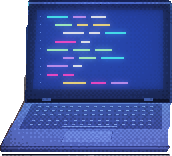
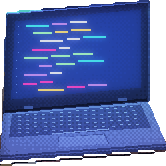
art(O-06): turn the laptop toward the seat; keep the map clear of it
The laptop is turned 11 degrees toward the left-hand seat, as if someone had just been working at it, and moved back a little so it stays on the table. The map moves right, so the laptop, lifted and scaled on focus, no longer meets the map's sprite, which lay over it.

diff --git a/src/scene/geometry.gen.ts b/src/scene/geometry.gen.ts
@@ -29,8 +29,8 @@ export const CAMERA = { x: 240, y: 209.808 };
 /** Every focusable object, keyed by the section it opens */
 export const OBJECTS: Record<string, ObjectGeometry> = {
   cover: { zone: [142, 116, 338, 272], light: { x: 240, y: 194, rx: 108, ry: 84 } },
-  projects: { zone: [137, 279, 252, 376], light: { x: 195, y: 328, rx: 62, ry: 52 }, box: { x: 149, y: 295, w: 86, h: 78 }, sprite: '/assets/obj-projects.webp' },
+  projects: { zone: [137, 279, 252, 376], light: { x: 195, y: 328, rx: 62, ry: 52 }, box: { x: 154, y: 291, w: 83, h: 83 }, sprite: '/assets/obj-projects.webp' },
   about: { zone: [308, 344, 360, 378], light: { x: 334, y: 361, rx: 30, ry: 20 }, box: { x: 312, y: 347, w: 39, h: 23 }, sprite: '/assets/obj-about.webp' },
   stack: { zone: [318.7565, 36.95, 409.9482, 92.9085], light: { x: 364.3523, y: 67.0018, rx: 49.7409, ry: 29.0155 }, box: { x: 325, y: 46, w: 75, h: 44 }, sprite: '/assets/obj-stack.webp', front: { x: 322, y: 77, w: 85, h: 17, sprite: '/assets/obj-stack-front.webp' } },
-  journey: { zone: [227, 317, 310, 348], light: { x: 265, y: 332, rx: 38, ry: 12 }, box: { x: 233, y: 323, w: 63, h: 18 }, sprite: '/assets/obj-journey.webp' },
+  journey: { zone: [240, 317, 312, 348], light: { x: 273, y: 332, rx: 32, ry: 12 }, box: { x: 245, y: 323, w: 57, h: 18 }, sprite: '/assets/obj-journey.webp' },
 };

diff --git a/tools/art/room.py b/tools/art/room.py
@@ -43,7 +43,7 @@ OBJECTS = {
     'stack': dict(at=(326, 52), zone=(-10, -9, 78, 45), light=(34, 20, 48, 28), on_rack=1),
     # the map, half open on the table; the line display on the wall is the
     # railway's, and only a decoy
-    'journey': dict(at=(233, 323), zone=(-6, -6, 77, 25), light=(32, 9, 38, 12)),
+    'journey': dict(at=(245, 323), zone=(-5, -6, 67, 25), light=(28, 9, 32, 12)),
 }
 
 # The window opening (x y w h) and its corner radius. The page lays .win over it:
@@ -1106,7 +1106,7 @@ def table_map(g, T):
     o = g.at(0, 0, 'journey')
     paper = (232, 222, 196)
     # the flat sheet, a little askew
-    A, B, C, D = T(0.47, 0.08), T(0.77, 0.05), T(0.78, 0.28), T(0.48, 0.31)
+    A, B, C, D = T(0.53, 0.08), T(0.8, 0.05), T(0.81, 0.28), T(0.54, 0.31)
     o.poly([A, B, C, D], paper)
     g.line([(D[0], D[1] + 1), (C[0], C[1] + 1)], mul(WOOD, 0.55))  # its shadow on the wood
 
@@ -1278,15 +1278,27 @@ def table(g, rnd):
     table_map(g, T)
     # ---- laptop (the projects object)
     # Drawn in the table's own perspective: its base is a rectangle on the table
-    # top, square to the table's edges, found through T(u, v); the lid stands
-    # up from the base's back edge. All of it on the fine layer, whose straight
-    # edges EPX would tear (docs/13, R-03, O-06).
+    # top, found through T(u, v), turned a little toward the left-hand seat as if
+    # someone had just been working at it from there; the lid stands up from the
+    # base's back edge. All of it on the fine layer, whose straight edges EPX
+    # would tear (docs/13, R-03, O-06).
     o = place(g, 'projects', (148, 288))
-    u0, u1, v0, v1 = 0.12, 0.47, 0.42, 0.9
-    BLb, BRb, FRb, FLb = T(u0, v0), T(u1, v0), T(u1, v1), T(u0, v1)
-    # contact shadow along its front and left edges, where it meets the table
-    o.shadow(round(FLb[0]) - 3, round(FLb[1]) - 1, round(FRb[0] - FLb[0]) + 6, 5, 0.45)
-    o.shadow(round(FLb[0]) - 4, round(BLb[1]), 6, round(FLb[1] - BLb[1]), 0.6)
+    TW, TD = 1.0, 0.5  # the table's width and depth in metres, for turning
+    cu, cv, hw, hd, turn = 0.29, 0.62, 0.175, 0.12, math.radians(-11)
+
+    def on_table(a, b):
+        """A point of the base, a across from 0 (left) to 1, b from 0 (back) to 1."""
+        x, z = (a - 0.5) * 2 * hw, (b - 0.5) * 2 * hd
+        x, z = x * math.cos(turn) - z * math.sin(turn), x * math.sin(turn) + z * math.cos(turn)
+        return T(cu + x / TW, cv + z / TD)
+
+    BLb, BRb, FRb, FLb = on_table(0, 0), on_table(1, 0), on_table(1, 1), on_table(0, 1)
+    K = lambda a, b: on_table(a, b)
+    # contact shadow along its front edge and its left side
+    xs = [q[0] for q in (BLb, BRb, FRb, FLb)]
+    ys = [q[1] for q in (BLb, BRb, FRb, FLb)]
+    o.shadow(round(min(xs)) - 3, round(max(ys)) - 3, round(max(xs) - min(xs)) + 6, 6, 0.45)
+    o.shadow(round(min(xs)) - 4, round(min(ys)), 7, round(max(ys) - min(ys)), 0.6)
     th = 3  # the base's thickness
     o.fpoly([FLb, FRb, (FRb[0], FRb[1] + th), (FLb[0], FLb[1] + th)], (88, 94, 130))
     o.fpoly([BRb, FRb, (FRb[0], FRb[1] + th), (BRb[0], BRb[1] + th)], (68, 74, 106))
@@ -1294,18 +1306,14 @@ def table(g, rnd):
     o.fline([(FLb[0], FLb[1] + th + 1), (FRb[0], FRb[1] + th + 1)], (18, 16, 28))
     o.fpoly([BLb, BRb, FRb, FLb], (150, 158, 190))
     # the keyboard well, and the keys at their size: five rows
-    K = lambda u, v: T(u0 + (u1 - u0) * u, v0 + (v1 - v0) * v)
     o.fpoly([K(0.06, 0.06), K(0.94, 0.06), K(0.95, 0.6), K(0.05, 0.6)], (92, 100, 138))
     for r in range(5):
-        v = 0.1 + r * 0.1
         n = 15
         for i in range(n):
-            x, y = K(0.09 + (i + 0.5) * 0.82 / n, v)
+            x, y = K(0.09 + (i + 0.5) * 0.82 / n, 0.1 + r * 0.1)
             o.frect(round(x) - 1, round(y), 2, 1, (196, 204, 234))
     # the space bar
-    xa, ya = K(0.32, 0.55)
-    xb, _ = K(0.68, 0.55)
-    o.frect(round(xa), round(ya), round(xb - xa), 1, (196, 204, 234))
+    o.fline([K(0.32, 0.56), K(0.68, 0.56)], (196, 204, 234))
     # the trackpad
     o.fpoly([K(0.355, 0.67), K(0.645, 0.67), K(0.65, 0.91), K(0.35, 0.91)], (110, 118, 154))
     o.fpoly([K(0.36, 0.68), K(0.64, 0.68), K(0.645, 0.9), K(0.355, 0.9)], (172, 180, 212))
@@ -1319,36 +1327,39 @@ def table(g, rnd):
     # the screen inside a bezel: narrow at the sides and top, wider at the foot
     D = [(L[0][0] + 4, L[0][1] + 4), (L[1][0] - 4, L[1][1] + 4), (BRb[0] - 4, BRb[1] - 7), (BLb[0] + 4, BLb[1] - 7)]
     o.fpoly(D, (40, 70, 160), 0.42, body=(22, 30, 62))
-    cx = (L[0][0] + L[1][0]) / 2
-    o.frect(round(cx), round(L[0][1]) + 1, 1, 1, (16, 18, 30))  # the camera
+    Sp = lambda a, b: lerp(lerp(D[0], D[1], a), lerp(D[3], D[2], a), b)
+    o.frect(round((L[0][0] + L[1][0]) / 2), round((L[0][1] + L[1][1]) / 2) + 1, 1, 1, (16, 18, 30))  # the camera
     # hinge: a dark seam across the lid's foot, a barrel at each end
     o.fline([(BLb[0] + 1, BLb[1] - 1), (BRb[0] - 1, BRb[1] - 1)], (22, 24, 38), width=1.5)
-    for hx in (BLb[0] + 9, BRb[0] - 13):
-        o.frect(round(hx), round(BLb[1]) - 2, 5, 2, (96, 102, 136))
-    # code on the screen
+    for t in (0.14, 0.8):
+        hx, hy = lerp(BLb, BRb, t)
+        o.frect(round(hx), round(hy) - 2, 5, 2, (96, 102, 136))
+    # code on the screen, its rows following the screen's slope
     colors = [MAG, CYA, (255, 206, 110), (150, 255, 170), (226, 232, 255), (176, 130, 255)]
-    sx0, sx1 = D[0][0] + 5, D[1][0] - 3
-    sy0, sy1 = D[0][1] + 3, D[3][1] - 3
     rows = 9
     for r in range(rows):
-        y = sy0 + r * (sy1 - sy0) / (rows - 1)
-        o.frect(round(D[0][0]) + 2, round(y), 1, 1, (90, 110, 170), 0.5)
-        x = sx0 + rnd.choice([0, 0, 4, 8, 4])
+        b = 0.08 + r * 0.84 / (rows - 1)
+        nx, ny = Sp(0.03, b)
+        o.frect(round(nx), round(ny), 1, 1, (90, 110, 170), 0.5)
+        a = 0.09 + rnd.choice([0, 0, 0.06, 0.12, 0.06])
         n = rnd.choice([2, 3, 3, 4])
         if r == 7:
-            x, n = sx0, 2
+            a, n = 0.09, 2
         for _ in range(n):
-            ln = rnd.randrange(4, 13)
-            if r == 7 and x + ln > sx0 + 30:
+            ln = rnd.randrange(4, 13) / 62
+            if r == 7 and a + ln > 0.55:
                 break
-            x1 = min(x + ln, sx1) - 1
-            o.fline([(x, y), (x1, y)], rnd.choice(colors), 0.95)
-            x += ln + 2
-            if x > sx1 - 5:
+            a1 = min(a + ln, 0.96)
+            # each run level in itself, at the height of its middle: a sloping
+            # run would show a step
+            (xa, ya), (xb, yb) = Sp(a, b), Sp(a1, b)
+            o.fline([(xa, (ya + yb) / 2), (xb, (ya + yb) / 2)], rnd.choice(colors), 0.95)
+            a = a1 + 2 / 62
+            if a > 0.9:
                 break
     # the screen's light on the keys and on the table in front
-    o.light(round(BLb[0]), round(BLb[1]) - 6, round(BRb[0] - BLb[0]), 30, (90, 150, 255), 0.5)
-    o.light(round(BLb[0]) - 6, round(L[0][1]) - 6, round(BRb[0] - BLb[0]) + 12, top + 12, (80, 120, 255), 0.25)
+    o.light(round(min(xs)), round(min(ys)) - 6, round(max(xs) - min(xs)), 30, (90, 150, 255), 0.5)
+    o.light(round(min(xs)) - 6, round(min(ys)) - top - 6, round(max(xs) - min(xs)) + 12, top + 12, (80, 120, 255), 0.25)
     # ---- coffee
     # the cup stands in front of the map; it is cut out of the map's sprite
     cg = scaled(g, COFFEE_SCALE, *COFFEE_AT).at(0, 0, '_cup')

diff --git a/docs/13-art-review.md b/docs/13-art-review.md
@@ -875,7 +875,7 @@ something else.
 | 4     | 4.2  | done    | the light falling on the room's albedo is cut into bands of its strength, 0.2 apart, keeping its colour, with a 4x4 ordered dither between bands on the 1x grid (`bands` in `px.render`, `BANDS` in `room.py`); bloom and emission stay smooth; the city is untouched; room.webp grows from about 80 to 145 KB                                                                                                                                                                                                                 |
 | 4     | 4.3  | done    | the laptop is drawn whole on the fine layer (`fpoly`, `frect` on the canvas and in `room.py`), so its lid and base keep straight edges instead of the steps EPX tore them into; the seat caps' edges were already clean enough after stage 1                                                                                                                                                                                                                                                                                   |
 | 4     | 4.4  | done    | fabric: a twill on the holdall; leather: a broad soft sheen across the briefcase's lid; metal: small hard speculars on the window rail, the lamp's rim and the table's brass edge; wood: an edge highlight where the table top turns down to the brass                                                                                                                                                                                                                                                                         |
-| 5     | 5.1  | review  | laptop redrawn in the table's perspective: its base a rectangle on the table top through T(u, v), square to the table's edges, with thickness and a contact shadow; five rows of keys at scale, a space bar and a trackpad; the lid standing from the back edge with a bezel, a camera dot and a hinge; the screen's light on the keys and the table; all on the fine layer                                                                                                                                                    |
+| 5     | 5.1  | review  | laptop redrawn in the table's perspective: its base a rectangle on the table top through T(u, v), turned 11° toward the left-hand seat as if just used, clear of the map by more than its lift on focus, with thickness and a contact shadow; five rows of keys at scale, a space bar and a trackpad; the lid standing from the back edge with a bezel, a camera dot and a hinge; the screen's light on the keys and the table; all on the fine layer                                                                          |
 | 5     | 5.2  | pending |                                                                                                                                                                                                                                                                                                                                                                                                                                                                                                                                |
 | 5     | 5.3  | pending |                                                                                                                                                                                                                                                                                                                                                                                                                                                                                                                                |
 | 5     | 5.4  | pending |                                                                                                                                                                                                                                                                                                                                                                                                                                                                                                                                |
